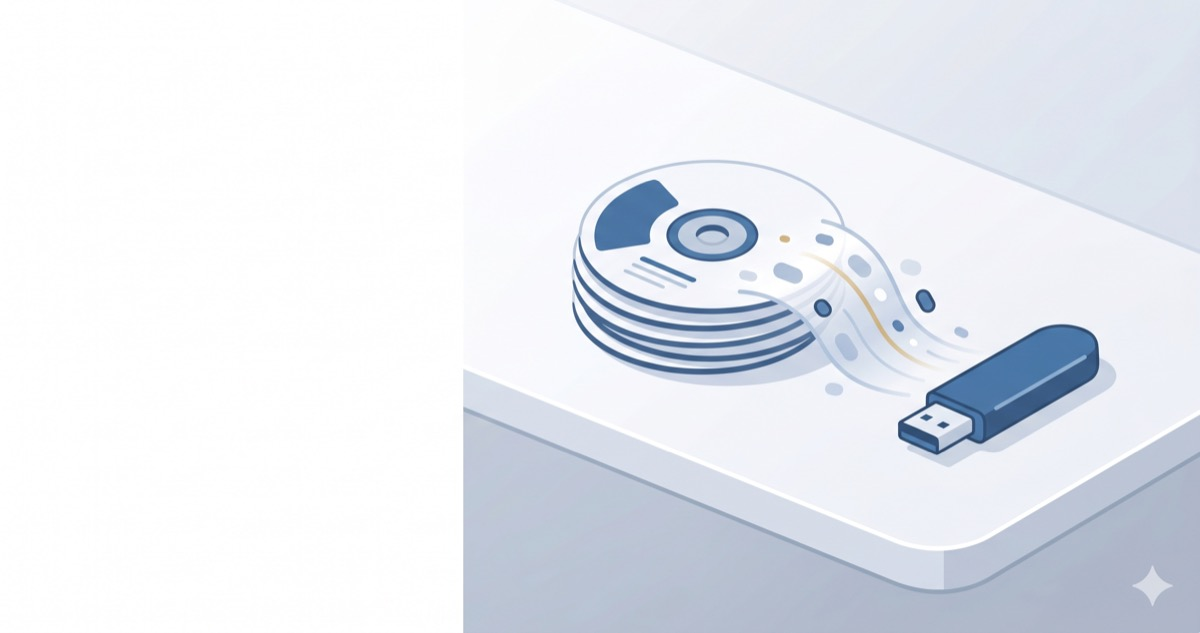
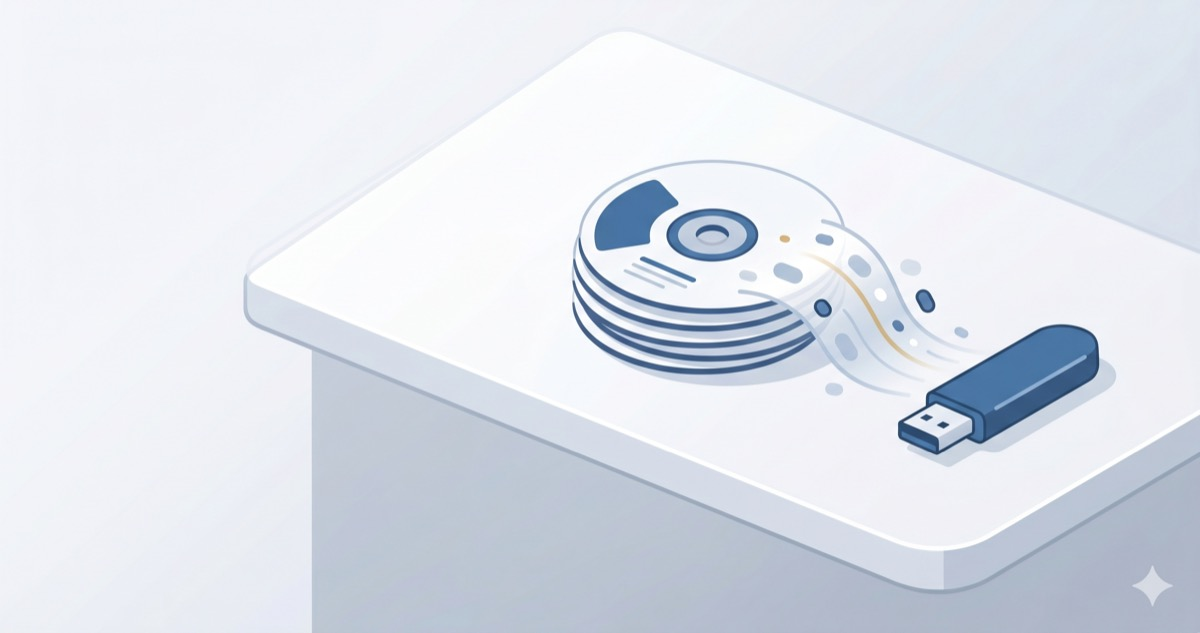
Windows code signing via Microsoft Trusted Signing + refresh social.jpg
- release.yml windows job: sign the bundled app exe and the installer with
  azure/trusted-signing-action (cloud/RSA, no token), gated on AZURE_CLIENT_ID
  like the macOS signing gate; verify the installer signature. Document the
  six Trusted Signing secrets in the header + packaging/windows/README.
- Regenerate optimized social.jpg from the updated social.png source.

Changed region(s): [[0.185, 0.4202, 0.4008, 1.0]]

diff --git a/packaging/windows/README.md b/packaging/windows/README.md
@@ -22,11 +22,42 @@ pyinstaller packaging\windows\mia-windows.spec --noconfirm
 The installer is **per-user** (`PrivilegesRequired=lowest`) — no admin prompt,
 installs to `%LOCALAPPDATA%\Programs`.
 
-## Signing (later)
+## Signing — Microsoft Trusted Signing (the Windows "notarization")
 
-v1 ships **unsigned** — users will see a SmartScreen "unknown publisher" prompt
-(More info → Run anyway). When a Windows certificate is available, sign the
-installer before publishing, e.g. with `signtool.exe` or **Microsoft Trusted
-Signing** (cloud-based, no hardware token, CI-friendly — the preferred route).
-Use an **RSA** certificate (Smart App Control rejects ECC). Insert the signing
-step in the Windows job of `.github/workflows/release.yml`.
+Windows has no notarization service like Apple's; the equivalent is an
+**Authenticode signature** plus reputation, so SmartScreen and **Smart App
+Control** stop flagging "unknown publisher." Since June 2023, OV/EV certs must
+live on a hardware token/HSM (can't be a CI-friendly `.p12`), so the recommended
+route is **Microsoft Trusted Signing**: cloud-based, RSA (Smart App Control
+accepts it), pay-as-you-go (~$10/mo tier), no token, signs straight from CI.
+
+The release workflow is **already wired** — it signs the bundled app exe (before
+Inno packaging) *and* the final installer, then verifies the signature. It's
+gated on `AZURE_CLIENT_ID`, so until the secrets exist the build stays unsigned.
+
+### One-time setup
+
+1. **Azure** → create a **Trusted Signing account** + a **Certificate profile**
+   (Public Trust). Identity validation takes a few business days. Note the
+   **endpoint** region (e.g. `https://eus.codesigning.azure.net`), the **account
+   name**, and the **profile name**.
+2. Create an **app registration (service principal)**; grant it the **Trusted
+   Signing Certificate Profile Signer** role on the account. Note tenant id,
+   client id, and a client secret.
+3. Add these **GitHub repo secrets** (exact names the workflow reads):
+   `AZURE_TENANT_ID`, `AZURE_CLIENT_ID`, `AZURE_CLIENT_SECRET`,
+   `TRUSTED_SIGNING_ENDPOINT`, `TRUSTED_SIGNING_ACCOUNT`,
+   `TRUSTED_SIGNING_PROFILE`.
+4. Tag a release → the Windows job signs + timestamps both exes. Verify locally
+   with `Get-AuthenticodeSignature .\MIA-Toolkit-Setup-<ver>.exe` (Status =
+   `Valid`) or `signtool verify /pa /v <file>`.
+
+Notes:
+- **Reputation builds over downloads** — even correctly signed installers can
+  show SmartScreen briefly until Microsoft accrues reputation; an EV-backed
+  identity warms up faster.
+- Confirm the `azure/trusted-signing-action` version pinned in the workflow is
+  current before the first signed release.
+- *Legacy alternative:* if you ever have an exportable OV `.p12`, you can sign
+  with `signtool.exe` (`/fd SHA256 /tr <rfc3161-timestamp> /td SHA256`) instead —
+  but Trusted Signing is preferred and already wired.
